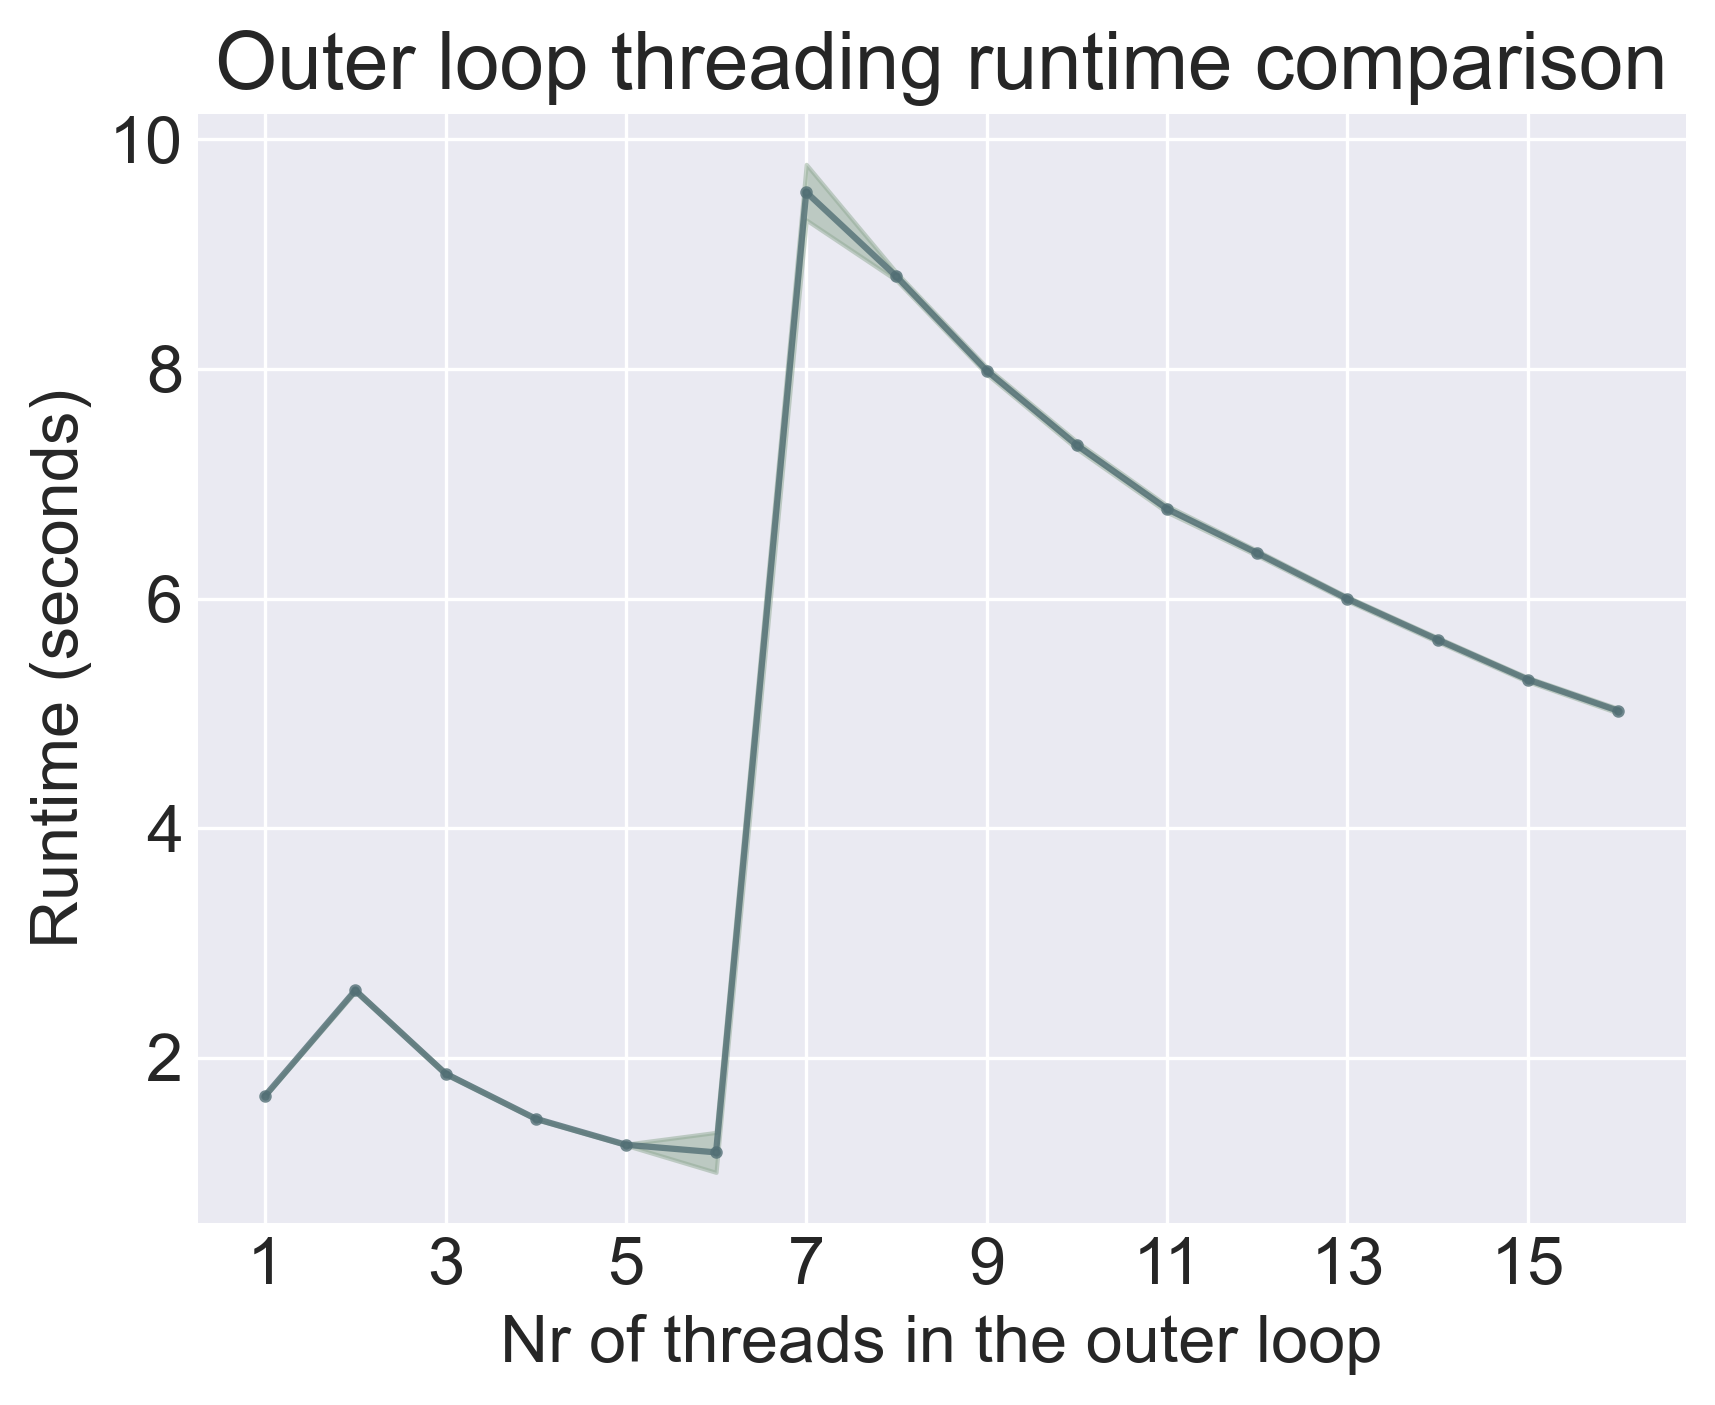
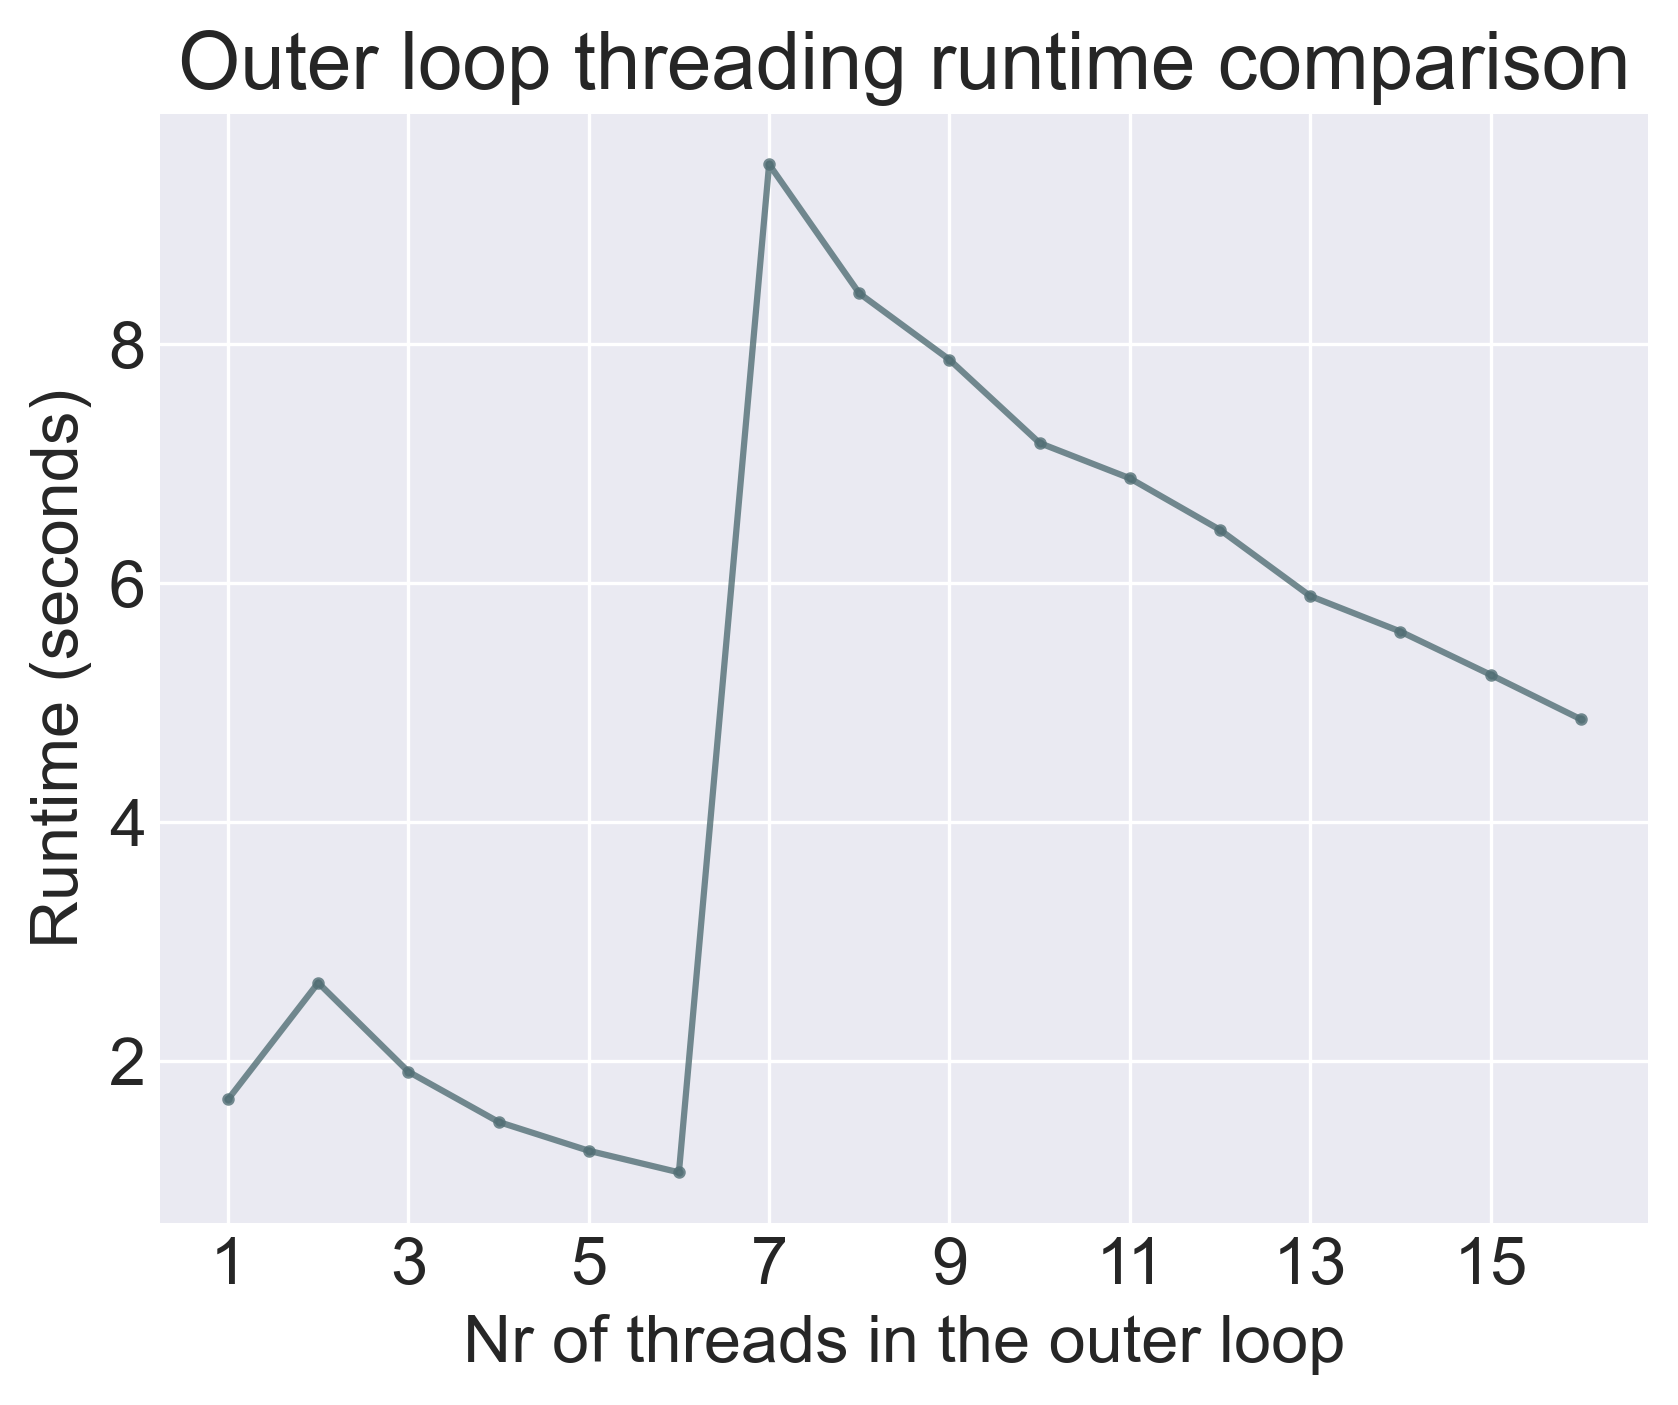
- naming

diff --git a/assignment_2/vecsort/parallel_v3_both/exp_outer_thread.py b/assignment_2/vecsort/parallel_v3_both/exp_outer_thread.py
@@ -2,30 +2,28 @@ import pandas as pd
 import matplotlib as mpl
 import matplotlib.pyplot as plt
 import numpy as np
+
 pd.set_option('display.max_columns', None)
 plt.style.use('seaborn-v0_8-darkgrid')
 mpl.rcParams['font.size'] = 16
 
-df = pd.read_csv("exp_outer_thread.csv").groupby("nr_outer_threads").agg(["mean", "sem"])
+df = pd.read_csv("exp_outer_thread_old.csv").groupby("nr_outer_threads").agg(["mean", "sem"])
 df.reset_index(inplace=True)
 df.columns = ["nr_outer_threads", "runtime_mean", "runtime_sem"]
 print(df)
 
 x_vals = df["nr_outer_threads"]
 mean = df["runtime_mean"]
-upper = mean+1.96*df["runtime_sem"]
-lower = mean-1.96*df["runtime_sem"]
+upper = mean + 1.96 * df["runtime_sem"]
+lower = mean - 1.96 * df["runtime_sem"]
 plt.figure()
 plt.title("Outer loop threading runtime comparison")
-plt.fill_between(x_vals, upper, lower, alpha =0.5, color = "#8FA993")
+plt.fill_between(x_vals, upper, lower, alpha=0.5, color="#8FA993")
 
-plt.plot(x_vals, mean, color= "#526F75", alpha=0.8)
+plt.plot(x_vals, mean, color="#526F75", alpha=0.8)
 plt.scatter(x_vals, mean, color="#526F75", alpha=0.8, s=4)
 plt.xlabel("Nr of threads in the outer loop")
 plt.ylabel("Runtime (seconds)")
-plt.xticks(np.arange(1,17,2))
+plt.xticks(np.arange(1, 17, 2))
 
 plt.savefig("exp_outer_thread.png", dpi=300, bbox_inches="tight")
-
-
-

diff --git a/assignment_2/vecsort/compare_speedup.py b/assignment_2/vecsort/compare_speedup.py
@@ -42,7 +42,7 @@ sems = df['speedup_sem'].values
 fig, ax = plt.subplots(figsize=(8, 6))
 ax.bar(versions, means, yerr=1.96*sems, capsize=5, color="#8FA993")
 ax.set_xticks(versions, labels=versions)
-ax.set_title("Vecsort runtime comparison", fontsize=16)
+ax.set_title("Vecsort speedup comparison", fontsize=16)
 ax.set_xlabel("Version", fontsize=14)
 ax.set_ylabel("Speedup", fontsize=14)
 
